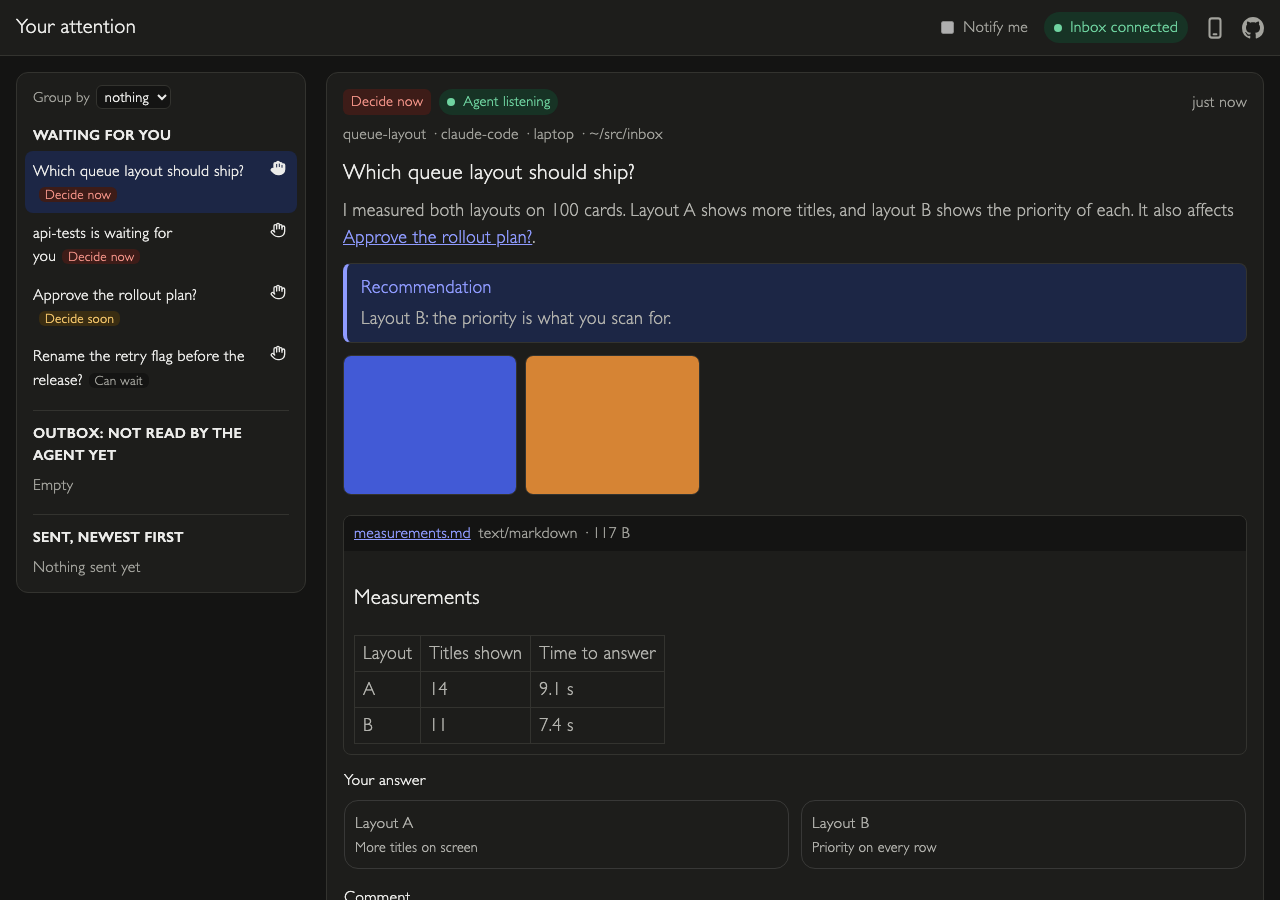
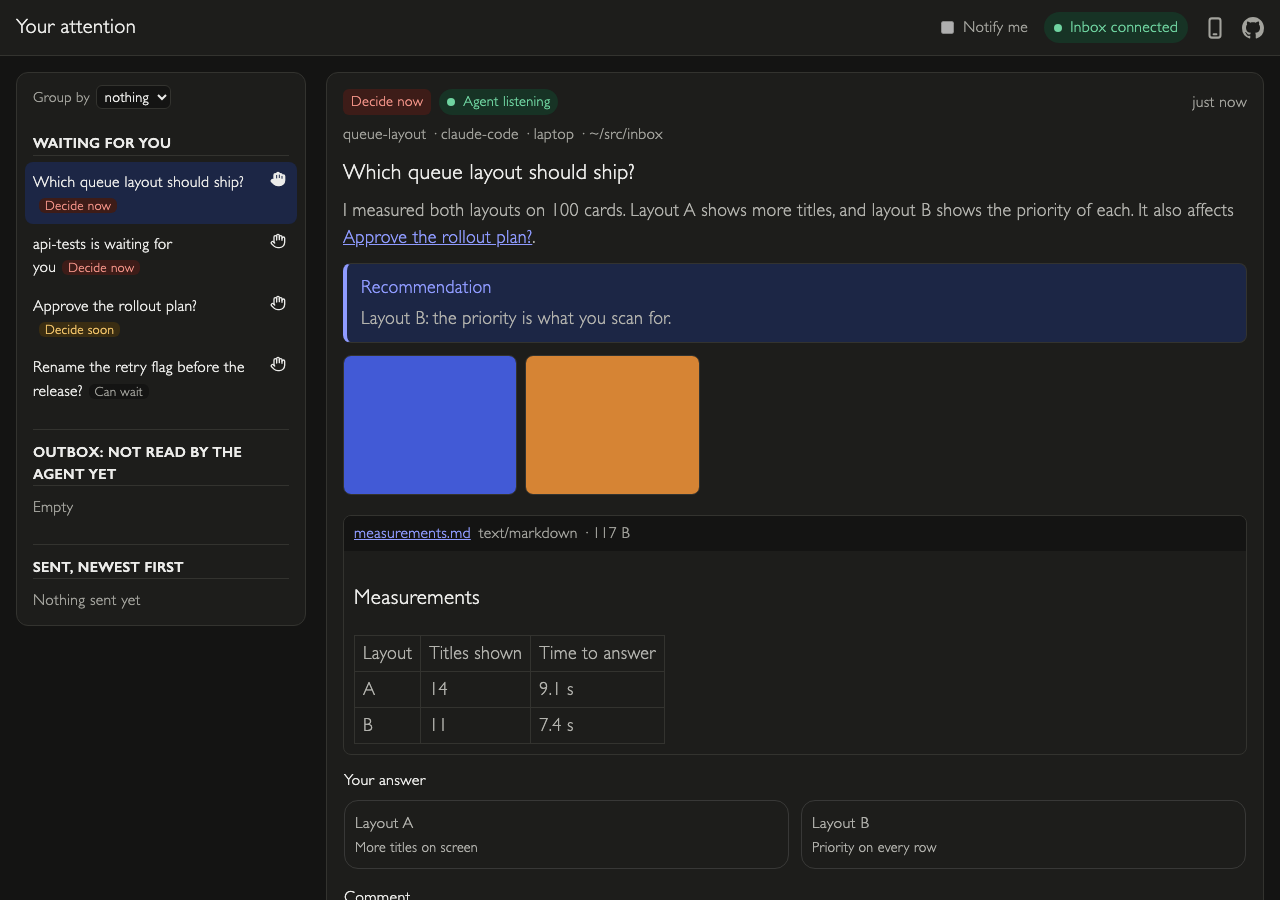
feat(page): a line under each queue header sets its section apart

Changed region(s): [[0.0, 0.1244, 0.25, 0.4356], [0.0312, 0.4667, 0.1875, 0.6844], [0.1875, 0.3111, 0.2188, 0.3422]]

diff --git a/web/style.css b/web/style.css
@@ -38,9 +38,9 @@
   .layout { position: relative; padding: 16px; display: grid; grid-template-columns: var(--queue-w, 290px) 1fr; gap: 20px; align-items: start; }
   @media (max-width: 760px) { .layout { grid-template-columns: 1fr; } .queue { order: 2; position: static; max-height: none; } .resizer { display: none; } }
   .queue { background: var(--panel); border: 1px solid var(--line); border-radius: 12px; padding: 8px; position: sticky; top: 72px; max-height: calc(100vh - 90px); overflow: auto; scrollbar-color: var(--line) transparent; scrollbar-width: thin; }
-  .queue h3 { font-size: calc(12px * var(--text-scale)); text-transform: uppercase; letter-spacing: .06em; color: var(--ink); margin: 12px 8px 4px; }
+  .queue h3 { font-size: calc(12px * var(--text-scale)); text-transform: uppercase; letter-spacing: .06em; color: var(--ink); margin: 20px 8px 4px; }
   .queue h3.sent { border-top: 1px solid var(--line); padding-top: 12px; }
-  .queue h3 { display: flex; align-items: center; gap: 8px; }
+  .queue h3 { display: flex; align-items: center; gap: 8px; border-bottom: 1px solid var(--line); padding-bottom: 0; margin-bottom: 6px; }
   .icon-btn { margin-left: auto; display: inline-flex; align-items: center; justify-content: center; width: 28px; height: 28px; padding: 0; border: 1px solid transparent; border-radius: 6px; background: none; color: var(--muted); cursor: pointer; }
   .icon-btn:hover, .icon-btn:focus-visible { color: var(--ink); border-color: var(--line); }
   .icon-btn svg { width: 18px; height: 18px; fill: none; stroke: currentColor; stroke-width: 2; stroke-linecap: round; stroke-linejoin: round; }

diff --git a/test/browser/rendering.spec.ts b/test/browser/rendering.spec.ts
@@ -432,6 +432,14 @@ test('an answer opens the card after the one you answered, not the card you skip
   }
 });
 
+test('a line under each queue header sets its section apart', async ({ page }) => {
+  await inbox.agent.post({ id: 'header-line', agent: 's-line', title: 'Under a header', priority: 'now' });
+  await inbox.open(page);
+  const headers = page.locator('nav.queue h3');
+  expect(await headers.count()).toBeGreaterThan(1);
+  for (const border of await headers.evaluateAll((els) => els.map((el) => { const c = getComputedStyle(el); return `${c.borderBottomStyle} ${c.borderBottomWidth}`; }))) expect(border).toBe('solid 1px');
+});
+
 test('the queue headers use the text color, and the cards you sent are dimmer than the ones that wait', async ({ page }) => {
   await inbox.agent.post({ id: 'waits-dim', agent: 's-dim', title: 'Still waits', priority: 'now' });
   await inbox.agent.post({ id: 'sent-dim', agent: 's-dim', title: 'Already sent', priority: 'now' });
